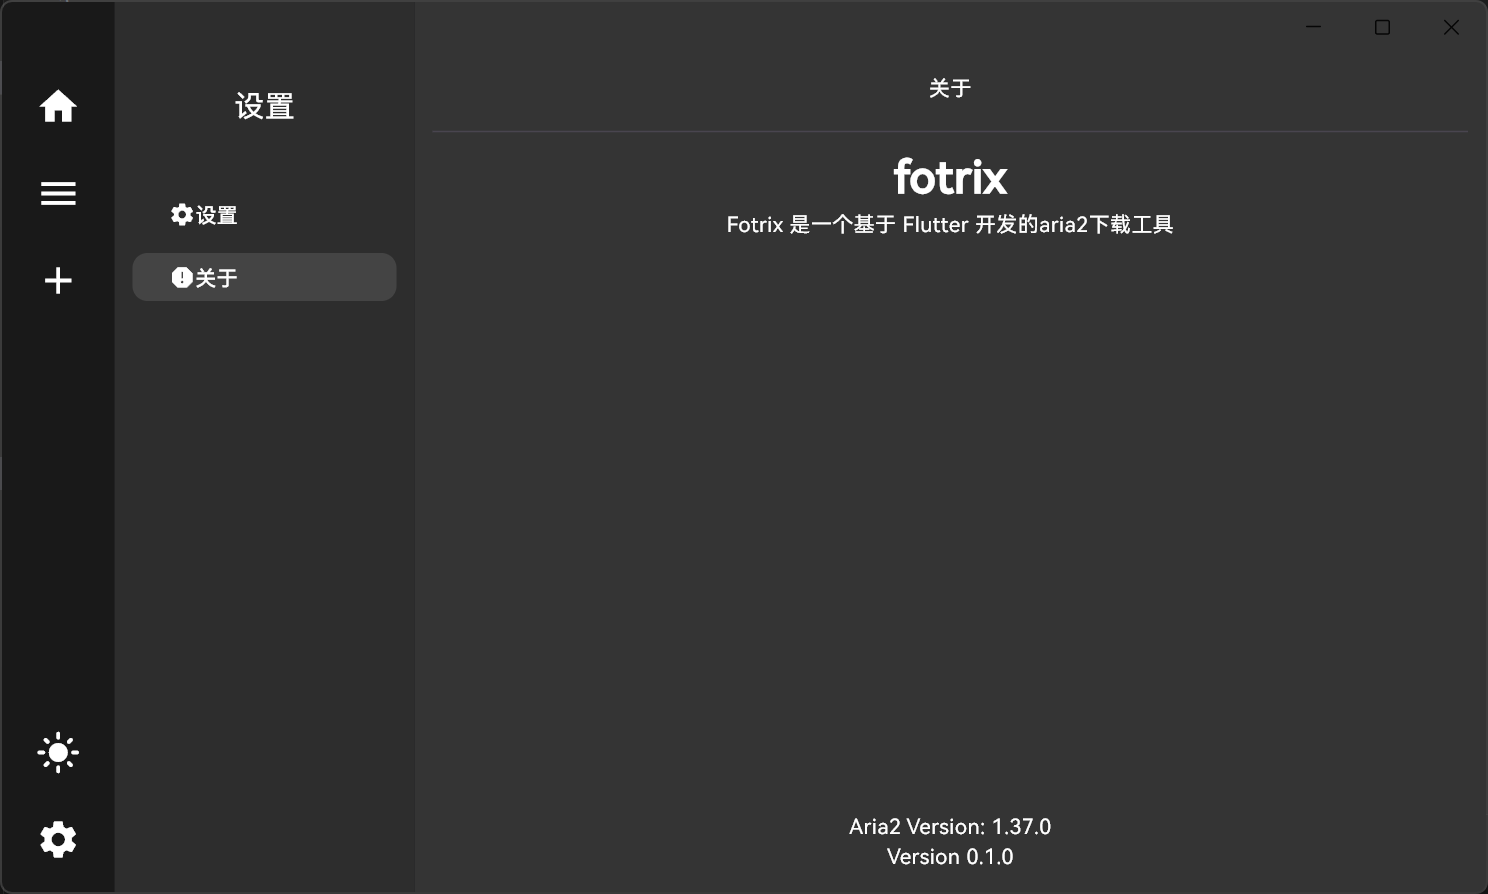
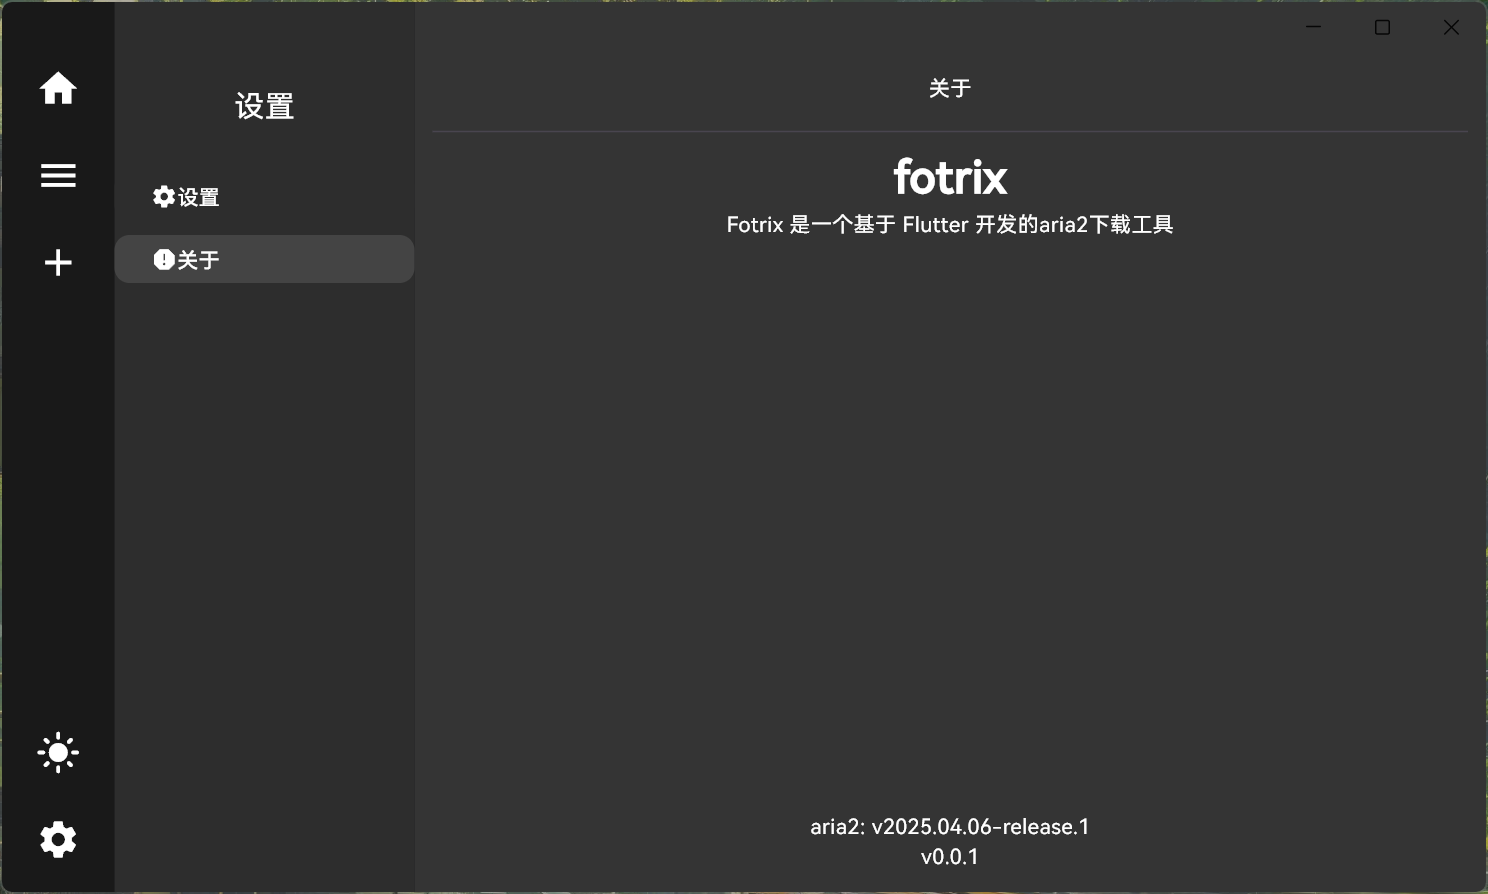
:bug: 疑似解决了重试任务无法删除和多次重试后失败的问题

diff --git a/lib/store/task_list.dart b/lib/store/task_list.dart
@@ -1,6 +1,7 @@
 import 'dart:async';
 import 'dart:convert';
 import 'dart:io';
+import 'package:fotrix/utils/logger.dart';
 import 'package:signals/signals.dart';
 import 'task.dart';
 import "package:fotrix/api/aria2_api.dart";
@@ -29,23 +30,24 @@ class TaskList {
   //创建任务
   Future<bool> addTask(String url) async {
     final list = [...active, ...complete, ...waiting];
-    bool isExist() {
-      return list.any((element) {
-        if (element.url == url && element.status.value != TaskStatus.error) {
-          return true;
-        } else {
-          return false;
-        }
-      });
-    }
 
-    if (isExist()) {
+    bool isExist = list.any((element) {
+      if (element.url == url) {
+        if (element.status.value == TaskStatus.complete ||
+            element.status.value == TaskStatus.error) {
+          return false;
+        } else {
+          return true;
+        }
+      }
       return false;
-    }
+    });
 
     //向aria2提交下载任务，并检查等待队列
-    await aria2Api.addTask(url);
-
+    if (!isExist) {
+      final res = await aria2Api.addTask(url);
+      logger.debug("添加任务 $url 成功: $res");
+    }
     return true;
   }
 
@@ -96,7 +98,7 @@ class TaskList {
     if (status['status'] == 'complete') {
       completeTask(task);
     } else if (status['status'] == 'error') {
-      task.status.value = TaskStatus.error;
+      setTaskStatus(task, TaskStatus.error);
     }
   }
 
@@ -156,7 +158,8 @@ class TaskList {
 
   //重试任务
   void retryTask(Task task) async {
-    deleteTask(task);
+    await deleteTask(task);
+    await Future.delayed(Duration(milliseconds: 500));
     await addTask(task.url);
   }
 
@@ -166,14 +169,14 @@ class TaskList {
   }
 
   //删除任务
-  void deleteTask(Task task) async {
+  Future<void> deleteTask(Task task) async {
     await updateTaskStatus(task);
     if (task.status.value != TaskStatus.complete) {
       await aria2Api.removeTask(task.gid);
     }
     setTaskStatus(task, TaskStatus.remove);
 
-    await Future.delayed(Duration(seconds: 1));
+    await Future.delayed(Duration(milliseconds: 500));
 
     if (await File(task.tmpPath).exists()) {
       File(task.tmpPath).delete();

diff --git a/lib/action.dart b/lib/action.dart
@@ -30,19 +30,16 @@ class AppAction {
 
   static Future<void> getAria2Version() async {
     final res = await aria2Api.getAria2Version();
-    logger.info("aria2版本: $res");
     config.aria2Version = res;
   }
 
   static Future<void> tellActive() async {
     final res = await aria2Api.tellActive();
-    logger.info("tellActive: $res");
     taskList.checkActive(res);
   }
 
   static Future<void> tellWaiting() async {
     final res = await aria2Api.tellWaiting(0, 100);
-    logger.info("tellWaiting: $res");
     taskList.checkWaiting(res);
   }
 }

diff --git a/lib/store/config.dart b/lib/store/config.dart
@@ -11,13 +11,12 @@ import "package:fotrix/api/aria2_api.dart";
 class Config {
   final _darkMode = signal(true);
   bool _powerBoot = false;
-
   int _threadCount = 6;
   String savePath = "D:\\Download";
   int maxDown = 5;
 
   late final _aria2Version = signal("-1");
-  String version = "0.1.3";
+  String version = "0.0.1";
 
   bool get darkMode => _darkMode.value;
   int get threadCount => _threadCount;

diff --git a/lib/utils/logger.dart b/lib/utils/logger.dart
@@ -26,6 +26,15 @@ class Logger {
     );
   }
 
+  Future<void> debug(String msg) async {
+    String time = DateTime.now().toString();
+    await checkLog();
+    await logFile?.writeAsString(
+      "[$time] [DEBUG] $msg\n",
+      mode: FileMode.append,
+    );
+  }
+
   Future<void> error(String msg) async {
     String time = DateTime.now().toString();
     await checkLog();

diff --git a/README.md b/README.md
@@ -33,4 +33,5 @@
 -   ✅ 任务名、下载速度等长度超出范围，导致显示异常。
 -   ✅ 下载的任务未获取到全部信息时，可能会直接显示为任务完成
 -   ✅ 任务错误时程序无提示，且无法删除任务
--   重试的任务无法删除下载的文件
+-   ✅ 重试的任务无法删除下载的文件（疑似解决）
+    -   ✅ 多次重试后任务会直接结束，且无本地文件
